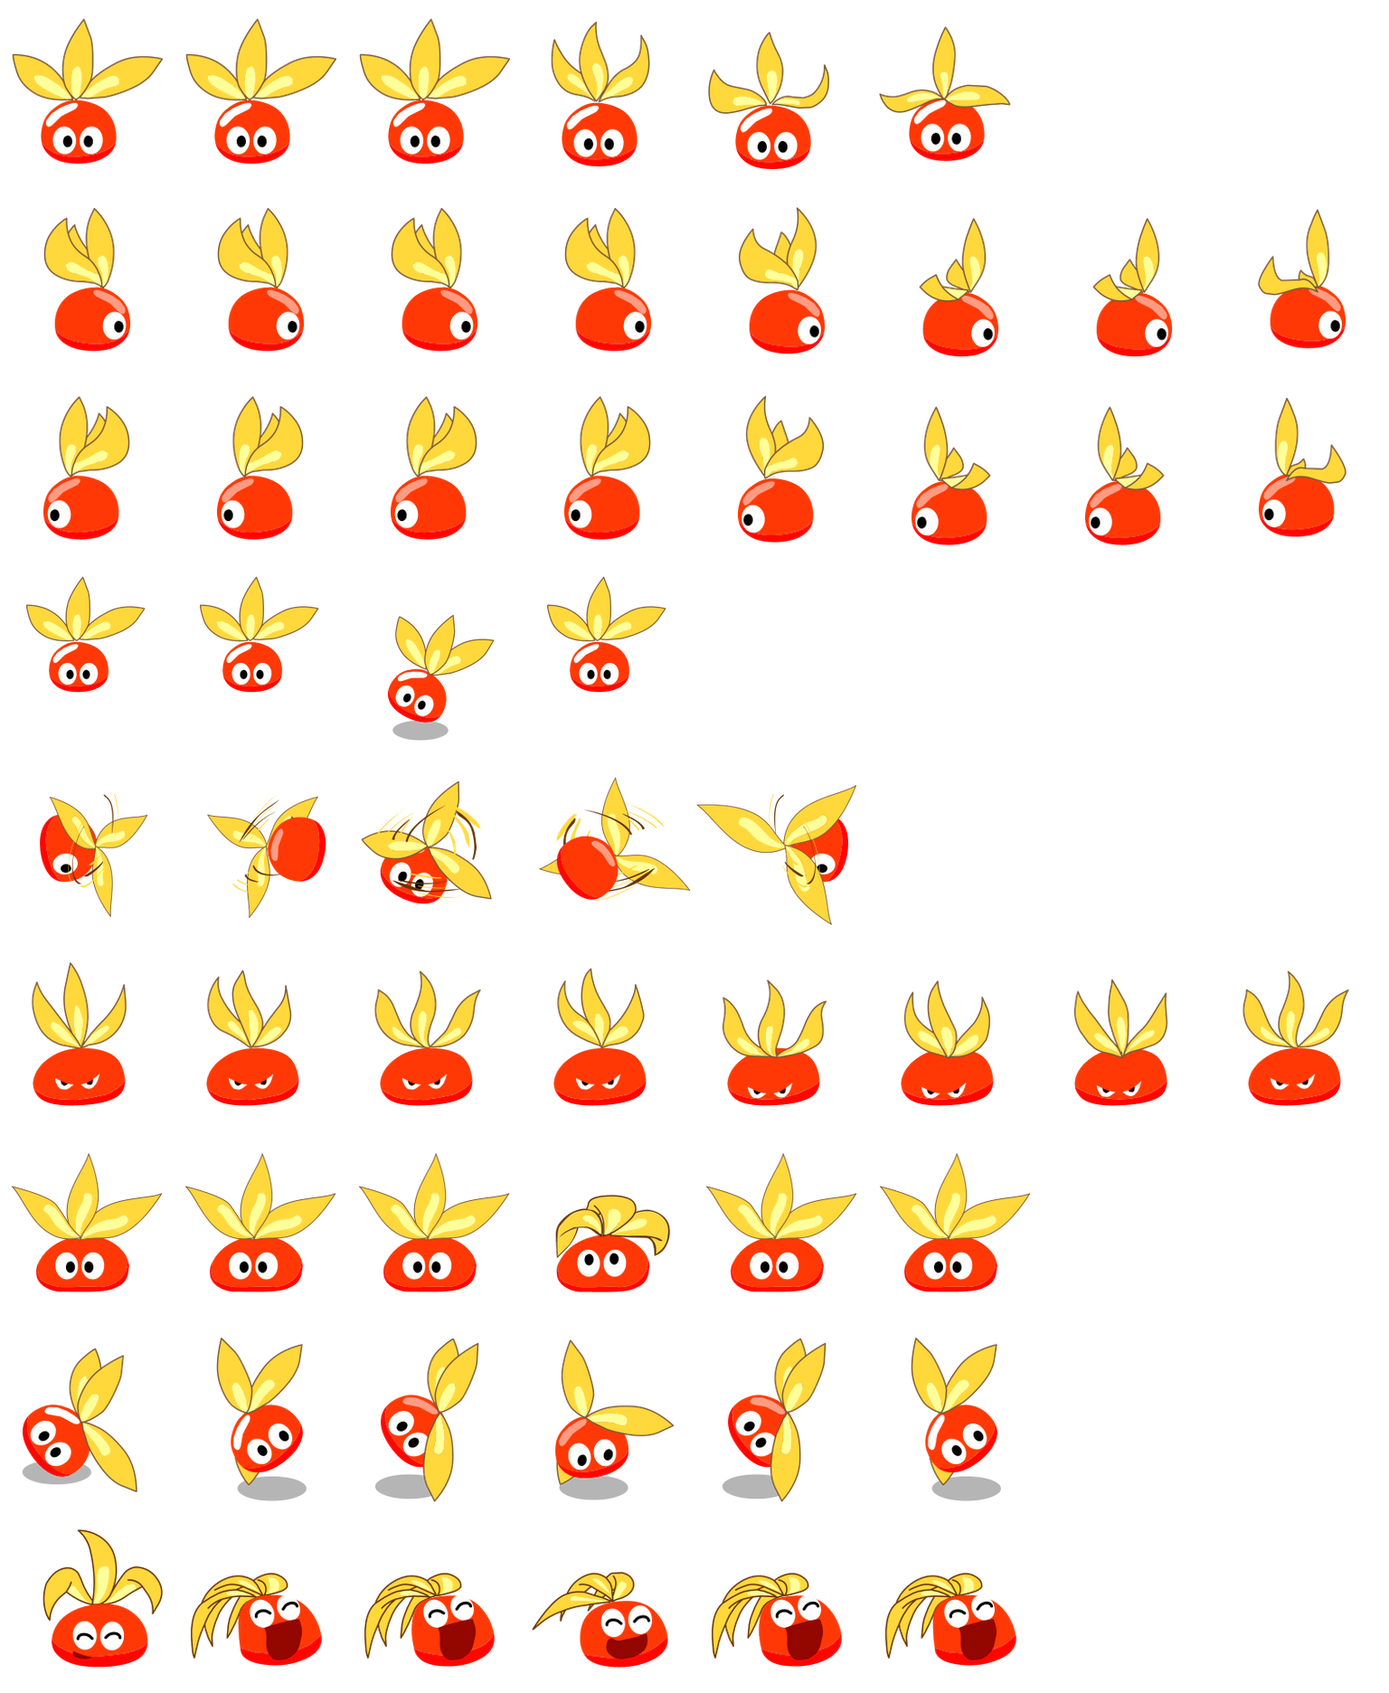
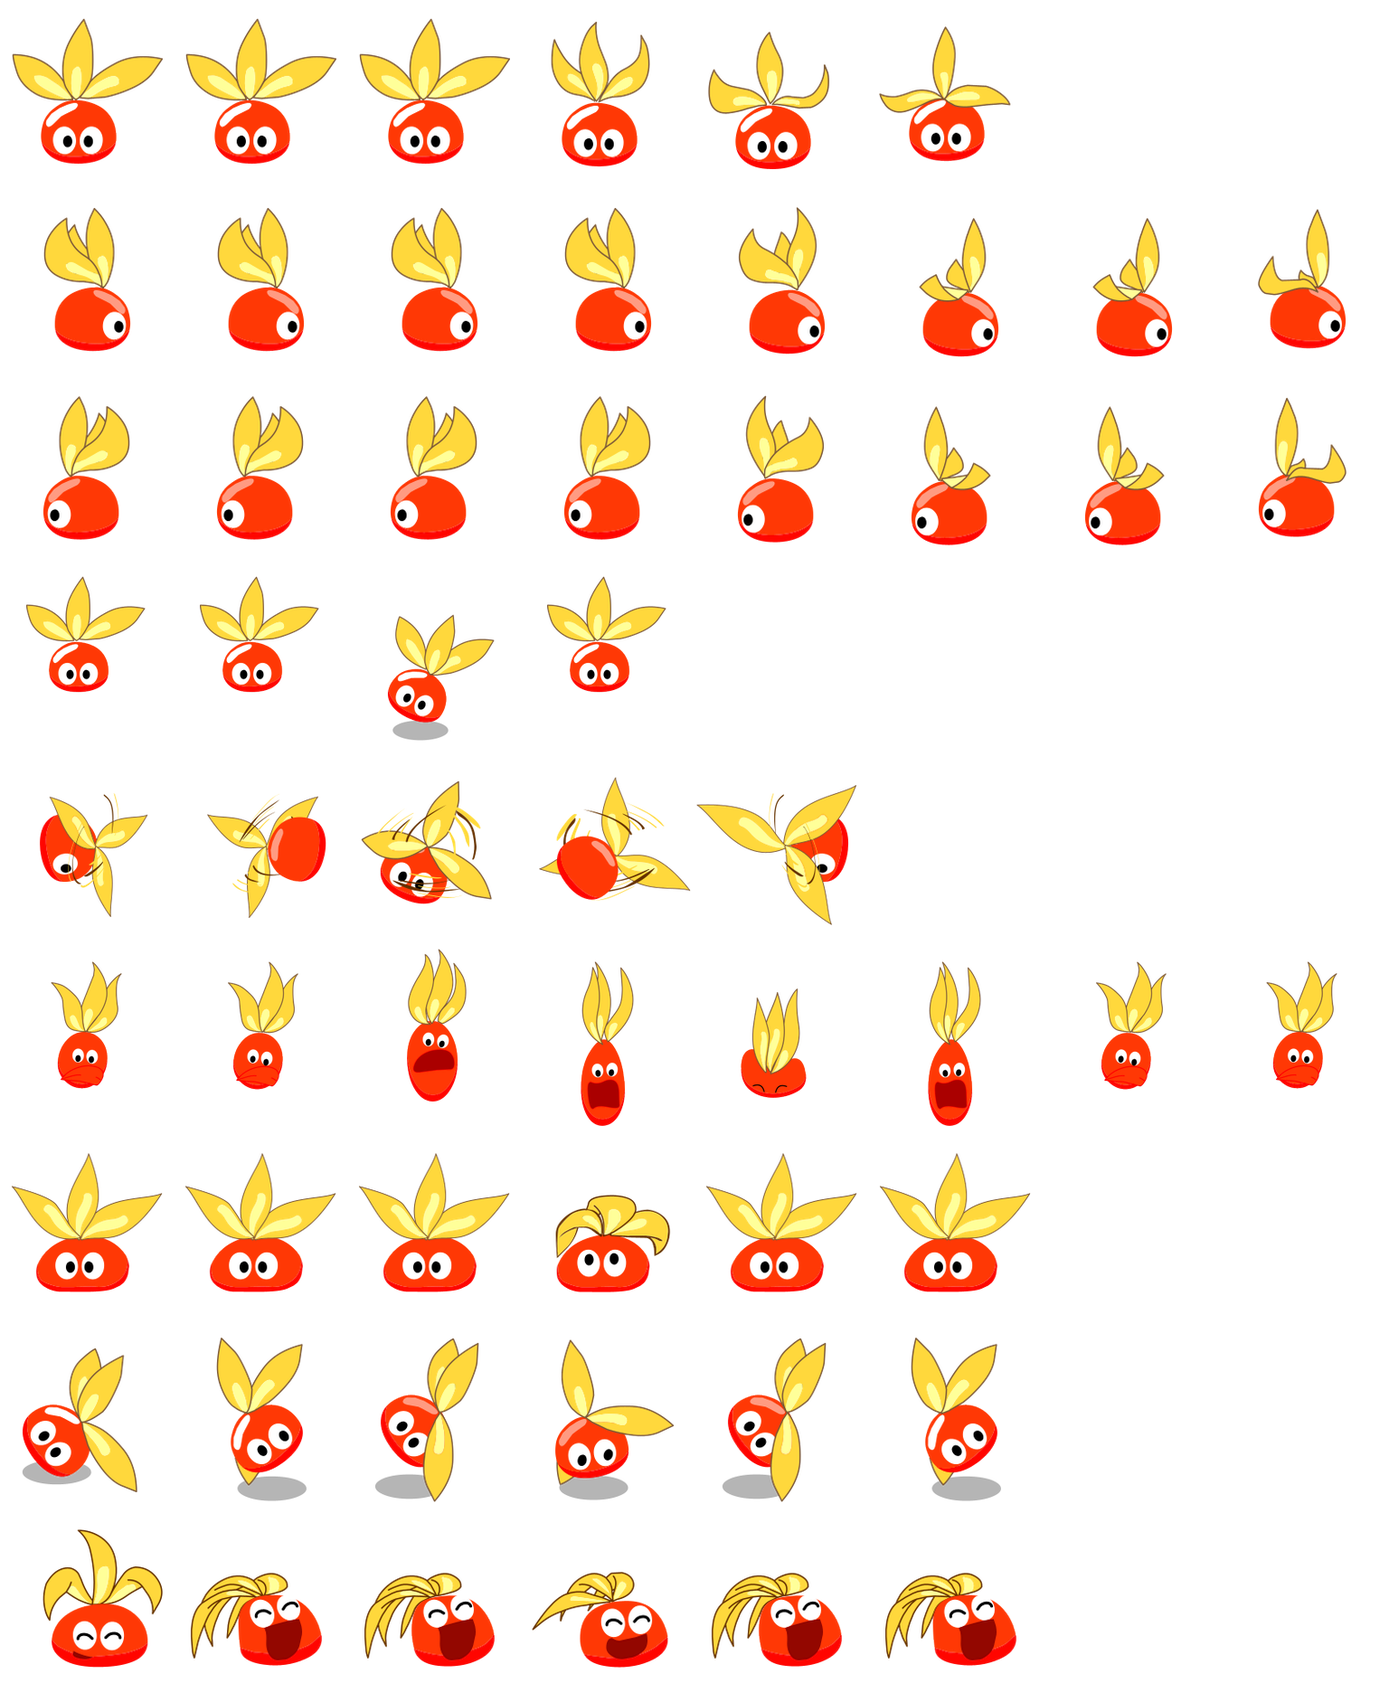
Include v2 completion references and update classic Ram failure animation

diff --git a/index.html b/index.html
@@ -25,4 +25,4 @@
     <section class="install" id="ram-install"><details><summary>安装说明</summary><div class="install-content"><ol><li><span>1</span><div><h3>解压宠物包</h3><p>得到一个含有 <code>pet.json</code> 和 <code>spritesheet.png</code> 的拉姆文件夹。</p></div></li><li><span>2</span><div><h3>放进 Codex 的 pets 文件夹</h3><p>macOS / Linux：<code>~/.codex/pets/</code><br>Windows：<code>%USERPROFILE%\.codex\pets\</code><br>若设置过 <code>CODEX_HOME</code>，请使用它下面的 <code>pets</code> 文件夹。</p></div></li><li><span>3</span><div><h3>在设置里选中它</h3><p>打开 Codex 的「设置 → Pets / 宠物」，刷新列表后选择拉姆。输入 <code>/pet</code> 唤出它。</p></div></li></ol><button class="copy-button" id="ram-copy-prompt">复制安装提示词</button><p class="install-note">也可以将下载的精灵图上传到支持「Upload pet」的宠物界面。<a href="https://learn.chatgpt.com/docs/pets" target="_blank" rel="noreferrer">官方说明 ↗</a></p></div></details></section>
 </div><div id="nono-panel" role="tabpanel" aria-labelledby="tab-nono" hidden><section class="workbench" aria-label="超能NoNo宠物预览"><div class="preview-panel" id="nono-preview-panel"><div class="preview-top"><span class="caps">安装效果预览</span><button id="nono-background" class="small-button" aria-label="切换深浅预览背景">◐ <span>深色背景</span></button></div><div class="pet-stage"><span class="pet-label" id="nono-pet-label">超能 NoNo</span><canvas id="nono-pet" width="576" height="624" role="img" aria-label="超能NoNo动画预览"></canvas></div><div class="preview-bottom"><span><i class="live-dot"></i><span id="nono-state-label">待机中</span></span><button id="nono-pause" class="small-button" aria-pressed="false">Ⅱ 暂停动画</button></div></div>
 <div class="controls nono-controls"><div class="section-heading"><h2>形态</h2></div><div class="forms nono-forms" role="group" aria-label="NoNo版本"><button class="form" data-form="nono-normal" aria-pressed="false"><strong>普通 NoNo</strong></button><button class="form active" data-form="nono" aria-pressed="true"><strong>超能 NoNo</strong></button><button class="form" data-form="nono-annual" aria-pressed="false"><strong>至尊 NoNo</strong></button></div><div class="divider"></div><div id="nono-colors-section"><div class="section-heading"><h2>颜色</h2></div><div class="colors" id="nono-colors" role="group" aria-label="NoNo颜色"></div><div class="divider"></div></div><div class="section-heading"><h2>动作</h2><a class="action-library-link" href="ram-library.html">查看原动作 ↗</a></div><div class="states" role="group" aria-label="预览动作"><button data-state="idle" class="selected" aria-pressed="true">待命</button><button data-state="waving" aria-pressed="false">开机</button><button data-state="jumping" aria-pressed="false">惊讶</button><button data-state="running" aria-pressed="false">玩魔方</button><button data-state="waiting" aria-pressed="false">充电</button><button data-state="review" aria-pressed="false">开心</button><button data-state="running-left" aria-pressed="false">向左</button><button data-state="running-right" aria-pressed="false">向右</button><button data-state="failed" aria-pressed="false">悲哀</button></div><p class="hint" style="margin-top:12px">动作播放三遍后回到待机，点击动作可重播。</p><div class="download-area"><div class="install-actions"><button class="command-action" id="nono-copy-command" aria-label="复制安装命令"><span class="command-header"><span class="terminal-title">命令安装 </span><span class="copy-feedback"><span class="copy-status" role="status" aria-live="polite">复制</span><svg class="copy-icon" viewBox="0 0 20 20" width="16" height="16" fill="none" stroke="currentColor" stroke-width="1.4" aria-hidden="true"><rect x="7" y="7" width="10" height="11" rx="2"/><path d="M12 4V3a1 1 0 0 0-1-1H4a2 2 0 0 0-2 2v8a1 1 0 0 0 1 1h1"/></svg></span></span><span class="command-line"><span class="shell-prompt" aria-hidden="true">$</span><code id="nono-install-command">npx --yes github:mli55/taomi-codex-pets --pet nono</code></span></button><button class="download" id="nono-download" disabled><span>↓</span> <span>下载 ZIP</span> </button></div><div class="download-meta"><span></span><button class="text-button" id="nono-download-png" disabled>下载 PNG</button></div><p id="nono-download-status" class="download-status" role="status"></p></div></div></section>    <section class="install" id="nono-install"><details><summary>安装说明</summary><div class="install-content"><ol><li><span>1</span><div><h3>解压宠物包</h3><p>得到一个含有 <code>pet.json</code> 和 <code>spritesheet.png</code> 的NoNo文件夹。</p></div></li><li><span>2</span><div><h3>放进 Codex 的 pets 文件夹</h3><p>macOS / Linux：<code>~/.codex/pets/</code><br>Windows：<code>%USERPROFILE%\.codex\pets\</code><br>若设置过 <code>CODEX_HOME</code>，请使用它下面的 <code>pets</code> 文件夹。</p></div></li><li><span>3</span><div><h3>在设置里选中它</h3><p>打开 Codex 的「设置 → Pets / 宠物」，刷新列表后选择NoNo。输入 <code>/pet</code> 唤出它。</p></div></li></ol><button class="copy-button" id="nono-copy-prompt">复制安装提示词</button><p class="install-note">也可以将下载的精灵图上传到支持「Upload pet」的宠物界面。<a href="https://learn.chatgpt.com/docs/pets" target="_blank" rel="noreferrer">官方说明 ↗</a></p></div></details></section>
-</div></main><footer><p>非官方项目 · 游戏素材版权归原权利方所有</p></footer><script src="pet-playback.js?v=animation-review2" defer></script><script src="ram.js?v=classic-angry1" defer></script><script src="nono.js?v=nono-size1" defer></script><script src="app.js" defer></script></body></html>
+</div></main><footer><p>非官方项目 · 游戏素材版权归原权利方所有</p></footer><script src="pet-playback.js?v=animation-review2" defer></script><script src="pet-upgrade.js?v=1" defer></script><script src="ram.js?v=classic-failed-sad1" defer></script><script src="nono.js?v=v2-reference1" defer></script><script src="app.js" defer></script></body></html>

diff --git a/ram.js b/ram.js
@@ -96,7 +96,7 @@ async function loadForm(next){
   try{
     let images=imageCache.get(next);
     if(!images){
-      images=await Promise.all([next+'-neutral.png',next+'-mask.png'].map(async file=>{const image=new Image();image.src='assets/'+file+'?v=classic-angry1';await image.decode();if(image.naturalWidth!==1536||image.naturalHeight!==1872)throw Error('宠物图集尺寸不正确');return image;}));
+      images=await Promise.all([next+'-neutral.png',next+'-mask.png'].map(async file=>{const image=new Image();image.src='assets/'+file+'?v=classic-failed-sad1';await image.decode();if(image.naturalWidth!==1536||image.naturalHeight!==1872)throw Error('宠物图集尺寸不正确');return image;}));
       imageCache.set(next,images);
     }
     if(request!==generation)return;
@@ -136,15 +136,15 @@ async function exportPet(onlyPng=false){
   try{const png=await pngBlob();
     if(onlyPng)downloadBlob(png,id+'-spritesheet.png');
     else{const metadata={id,displayName,spriteVersionNumber:1,spritesheetPath:'spritesheet.png'};
-      const readme=`${displayName}\n\n安装：把本文件夹放进 CODEX_HOME/pets（默认 ~/.codex/pets；Windows 为 %USERPROFILE%\\.codex\\pets）。\n打开 Codex 设置 → Pets / 宠物，刷新并选择它。输入 /pet 唤出宠物。\n\n本包只含数据，不执行任何脚本。\n图集：1536×1872，8列9行，每格192×208。\n行：idle, running-right, running-left, waving, jumping, failed, waiting, running, review。\n帧数：6,8,8,4,5,8,6,6,6。\n状态：待机、向右、向左、打招呼、跳跃（悬停）、失败、等待、工作、检查。\n配色：${PALETTE[color].name}（编号 ${color}）\n\n来源与说明：https://github.com/mli55/taomi-codex-pets\n官方宠物文档：https://learn.chatgpt.com/docs/pets\n摩尔庄园同人作品，非官方出品；角色权益归原权利方所有。\n`;
-      downloadBlob(makeZip([{name:id+'/pet.json',data:JSON.stringify(metadata,null,2)},{name:id+'/spritesheet.png',data:new Uint8Array(await png.arrayBuffer())},{name:id+'/README.txt',data:readme}]),id+'.zip');}
+      const readme=`${displayName}\n\n安装：把本文件夹放进 CODEX_HOME/pets（默认 ~/.codex/pets；Windows 为 %USERPROFILE%\\.codex\\pets）。\n打开 Codex 设置 → Pets / 宠物，刷新并选择它。输入 /pet 唤出宠物。\n\n本包只含数据，不执行任何脚本。\n本包包含原游戏动作图集及 v2 补全参考说明。现有可安装图集为 v1；若需升级，请按 V2-UPGRADE.txt 和 v2-reference.json 优先复用原素材，仅补全缺失朝向，保留原有九行动作。\n图集：1536×1872，8列9行，每格192×208。\n行：idle, running-right, running-left, waving, jumping, failed, waiting, running, review。\n帧数：6,8,8,4,5,8,6,6,6。\n状态：待机、向右、向左、打招呼、跳跃（悬停）、失败、等待、工作、检查。\n配色：${PALETTE[color].name}（编号 ${color}）\n\n来源与说明：https://github.com/mli55/taomi-codex-pets\n官方宠物文档：https://learn.chatgpt.com/docs/pets\n摩尔庄园同人作品，非官方出品；角色权益归原权利方所有。\n`;
+      downloadBlob(makeZip([{name:id+'/pet.json',data:JSON.stringify(metadata,null,2)},{name:id+'/spritesheet.png',data:new Uint8Array(await png.arrayBuffer())},{name:id+'/README.txt',data:readme},{name:id+'/V2-UPGRADE.txt',data:PetUpgrade.instructions},{name:id+'/v2-reference.json',data:JSON.stringify(PetUpgrade.manifest(displayName),null,2)}]),id+'.zip');}
     $('download-status').textContent='已开始下载。';
   }catch(error){$('download-status').textContent=error.message||'下载失败，请重试。';}
   finally{const ready=loadedForm===form;$('download').disabled=!ready;$('download-png').disabled=!ready;}
 }
 $('download').addEventListener('click',()=>exportPet());$('download-png').addEventListener('click',()=>exportPet(true));
 $('copy-prompt').addEventListener('click',async()=>{
-  const prompt=`请帮我安装已经下载的 Codex 宠物包 ${slug()}.zip。先在我的下载目录找到该文件，检查 ZIP 只包含宠物数据，没有绝对路径或路径穿越；读取 pet.json，核对 spritesheet.png 是1536×1872透明图集。将宠物文件夹放到 CODEX_HOME/pets（未配置时用 ~/.codex/pets）。如果同名宠物存在，请保留原文件，改用新目录。完成后告诉我在设置 → Pets 刷新并选择 ${PETS[form].name}。源码：https://github.com/mli55/taomi-codex-pets`;
+  const prompt=`请帮我安装已经下载的 Codex 宠物包 ${slug()}.zip。本包包含原游戏动作图集及 v2 补全参考说明。现有可安装图集为 v1；若需升级，请按 V2-UPGRADE.txt 和 v2-reference.json 优先复用原素材，仅补全缺失朝向，保留原有九行动作。先在我的下载目录找到该文件，检查 ZIP 只包含宠物数据，没有绝对路径或路径穿越；读取 pet.json，核对 spritesheet.png 是1536×1872透明图集。将宠物文件夹放到 CODEX_HOME/pets（未配置时用 ~/.codex/pets）。如果同名宠物存在，请保留原文件，改用新目录。完成后告诉我在设置 → Pets 刷新并选择 ${PETS[form].name}。源码：https://github.com/mli55/taomi-codex-pets`;
   try{await navigator.clipboard.writeText(prompt);$('copy-prompt').textContent='✓ 已复制，粘贴给 Codex 即可';}
   catch{const box=document.createElement('textarea');box.value=prompt;box.setAttribute('aria-label','安装说明，请手动复制');box.style.cssText='width:100%;min-height:140px;margin-top:12px';$('copy-prompt').after(box);box.focus();box.select();$('copy-prompt').textContent='请复制下方安装说明';}
 });

diff --git a/nono.js b/nono.js
@@ -101,15 +101,15 @@ async function exportPet(onlyPng=false){
   try{const png=await pngBlob();
     if(onlyPng)downloadBlob(png,id+'-spritesheet.png');
     else{const metadata={id,displayName,spriteVersionNumber:1,spritesheetPath:'spritesheet.png'};
-      const readme=`${displayName}\n\n安装：把本文件夹放进 CODEX_HOME/pets（默认 ~/.codex/pets；Windows 为 %USERPROFILE%\\.codex\\pets）。\n打开 Codex 设置 → Pets / 宠物，刷新并选择它。输入 /pet 唤出宠物。\n\n本包只含数据，不执行任何脚本。\n图集：1536×1872，8列9行，每格192×208。\n行：idle, running-right, running-left, waving, jumping, failed, waiting, running, review。\n帧数：6,8,8,4,5,8,6,6,6。\n游戏配色：${color==='original'?'原游戏配色':'按游戏换色面板截图还原（近似色值）'}\n\n来源与说明：https://github.com/mli55/taomi-codex-pets\n官方宠物文档：https://learn.chatgpt.com/docs/pets\n赛尔号同人作品，非官方出品；角色权益归原权利方所有。\n`;
-      downloadBlob(makeZip([{name:id+'/pet.json',data:JSON.stringify(metadata,null,2)},{name:id+'/spritesheet.png',data:new Uint8Array(await png.arrayBuffer())},{name:id+'/README.txt',data:readme}]),id+'.zip');}
+      const readme=`${displayName}\n\n安装：把本文件夹放进 CODEX_HOME/pets（默认 ~/.codex/pets；Windows 为 %USERPROFILE%\\.codex\\pets）。\n打开 Codex 设置 → Pets / 宠物，刷新并选择它。输入 /pet 唤出宠物。\n\n本包只含数据，不执行任何脚本。\n本包包含原游戏动作图集及 v2 补全参考说明。现有可安装图集为 v1；若需升级，请按 V2-UPGRADE.txt 和 v2-reference.json 优先复用原素材，仅补全缺失朝向，保留原有九行动作。\n图集：1536×1872，8列9行，每格192×208。\n行：idle, running-right, running-left, waving, jumping, failed, waiting, running, review。\n帧数：6,8,8,4,5,8,6,6,6。\n游戏配色：${color==='original'?'原游戏配色':'按游戏换色面板截图还原（近似色值）'}\n\n来源与说明：https://github.com/mli55/taomi-codex-pets\n官方宠物文档：https://learn.chatgpt.com/docs/pets\n赛尔号同人作品，非官方出品；角色权益归原权利方所有。\n`;
+      downloadBlob(makeZip([{name:id+'/pet.json',data:JSON.stringify(metadata,null,2)},{name:id+'/spritesheet.png',data:new Uint8Array(await png.arrayBuffer())},{name:id+'/README.txt',data:readme},{name:id+'/V2-UPGRADE.txt',data:PetUpgrade.instructions},{name:id+'/v2-reference.json',data:JSON.stringify(PetUpgrade.manifest(displayName),null,2)}]),id+'.zip');}
     $('download-status').textContent='已开始下载。';
   }catch(error){$('download-status').textContent=error.message||'下载失败，请重试。';}
   finally{const ready=loadedForm===form;$('download').disabled=!ready;$('download-png').disabled=!ready;}
 }
 $('download').addEventListener('click',()=>exportPet());$('download-png').addEventListener('click',()=>exportPet(true));
 $('copy-prompt').addEventListener('click',async()=>{
-  const prompt=`请帮我安装已经下载的 Codex 宠物包 ${slug()}.zip。先在我的下载目录找到该文件，检查 ZIP 只包含宠物数据，没有绝对路径或路径穿越；读取 pet.json，核对 spritesheet.png 是1536×1872透明图集。将宠物文件夹放到 CODEX_HOME/pets（未配置时用 ~/.codex/pets）。如果同名宠物存在，请保留原文件，改用新目录。完成后告诉我在设置 → Pets 刷新并选择 ${PETS[form].name}。源码：https://github.com/mli55/taomi-codex-pets`;
+  const prompt=`请帮我安装已经下载的 Codex 宠物包 ${slug()}.zip。本包包含原游戏动作图集及 v2 补全参考说明。现有可安装图集为 v1；若需升级，请按 V2-UPGRADE.txt 和 v2-reference.json 优先复用原素材，仅补全缺失朝向，保留原有九行动作。先在我的下载目录找到该文件，检查 ZIP 只包含宠物数据，没有绝对路径或路径穿越；读取 pet.json，核对 spritesheet.png 是1536×1872透明图集。将宠物文件夹放到 CODEX_HOME/pets（未配置时用 ~/.codex/pets）。如果同名宠物存在，请保留原文件，改用新目录。完成后告诉我在设置 → Pets 刷新并选择 ${PETS[form].name}。源码：https://github.com/mli55/taomi-codex-pets`;
   try{await navigator.clipboard.writeText(prompt);$('copy-prompt').textContent='✓ 已复制，粘贴给 Codex 即可';}
   catch{const box=document.createElement('textarea');box.value=prompt;box.setAttribute('aria-label','安装说明，请手动复制');box.style.cssText='width:100%;min-height:140px;margin-top:12px';$('copy-prompt').after(box);box.focus();box.select();$('copy-prompt').textContent='请复制下方安装说明';}
 });

diff --git a/pet-upgrade.js b/pet-upgrade.js
@@ -1,0 +1,17 @@
+// Shared by browser ZIP exports and the CLI installer.
+(()=>{
+'use strict';
+const states=['idle','running-right','running-left','waving','jumping','failed','waiting','running','review'];
+const counts=[6,8,8,4,5,8,6,6,6];
+const instructions=`本包使用原游戏素材，现有 spritesheet.png 为可安装的 v1 成品（1536×1872，8列9行）。
+
+如需补全 v2，请先读取 v2-reference.json，并实际查看 spritesheet.png 的全部九行动作作为参考。正面和左右候选帧的位置已标注；左右行走姿势只是候选，需要检查视线含义，不是已批准的 looking 帧。
+保留原图集前九行的像素、配色、帧顺序与单格大小。只为缺失的16个 looking 方向补素材；优先复用合适的原素材。原游戏的背面/up 不能作为抬头，正面/down 不能作为低头。不要通过旋转整只角色或重复帧冒充不同视线。
+附带图集已包含当前选择的配色。补图时把图集和从中裁出的正面、侧面参考实际传给生成工具；只读文字不足以约束外观。保持原版轮廓、眼睛、材质和尺寸，避免额外特效。
+每个方向是一个姿势，不是各做一套动画。000为上，090为屏幕右，180为下，270为屏幕左；按顺时针每22.5度排列。必须检查上下和斜向的视线，以及相邻方向的大小、位置是否连续。
+全部16方向通过检查后，追加两行，输出1536×2288图集，再将 spriteVersionNumber 改为2。不要把未完成的图集标成v2。保留原v1包，v2另存目录。
+仅安装现有包时直接安装v1；用户要求补全v2时可据此继续，无需重做九种动作。
+`;
+function manifest(displayName){return {schemaVersion:1,displayName,source:'spritesheet.png',sourceSpriteVersionNumber:1,targetSpriteVersionNumber:2,cellSize:[192,208],targetSize:[1536,2288],preserveRows:states.map((state,row)=>({row,state,frames:counts[row]})),references:[{role:'neutral',row:0,column:0,status:'reference'},{role:'screen-right',row:1,column:0,status:'candidate-needs-gaze-review'},{role:'screen-left',row:2,column:0,status:'candidate-needs-gaze-review'}],lookDirections:Array.from({length:16},(_,i)=>({degrees:i*22.5,row:9+Math.floor(i/8),column:i%8,status:'needs-source-review-or-completion'})),notes:'No look direction is certified yet. Side-facing original frames are candidates; rear-facing game movement is not upward gaze.'};}
+globalThis.PetUpgrade={instructions,manifest};
+})();
